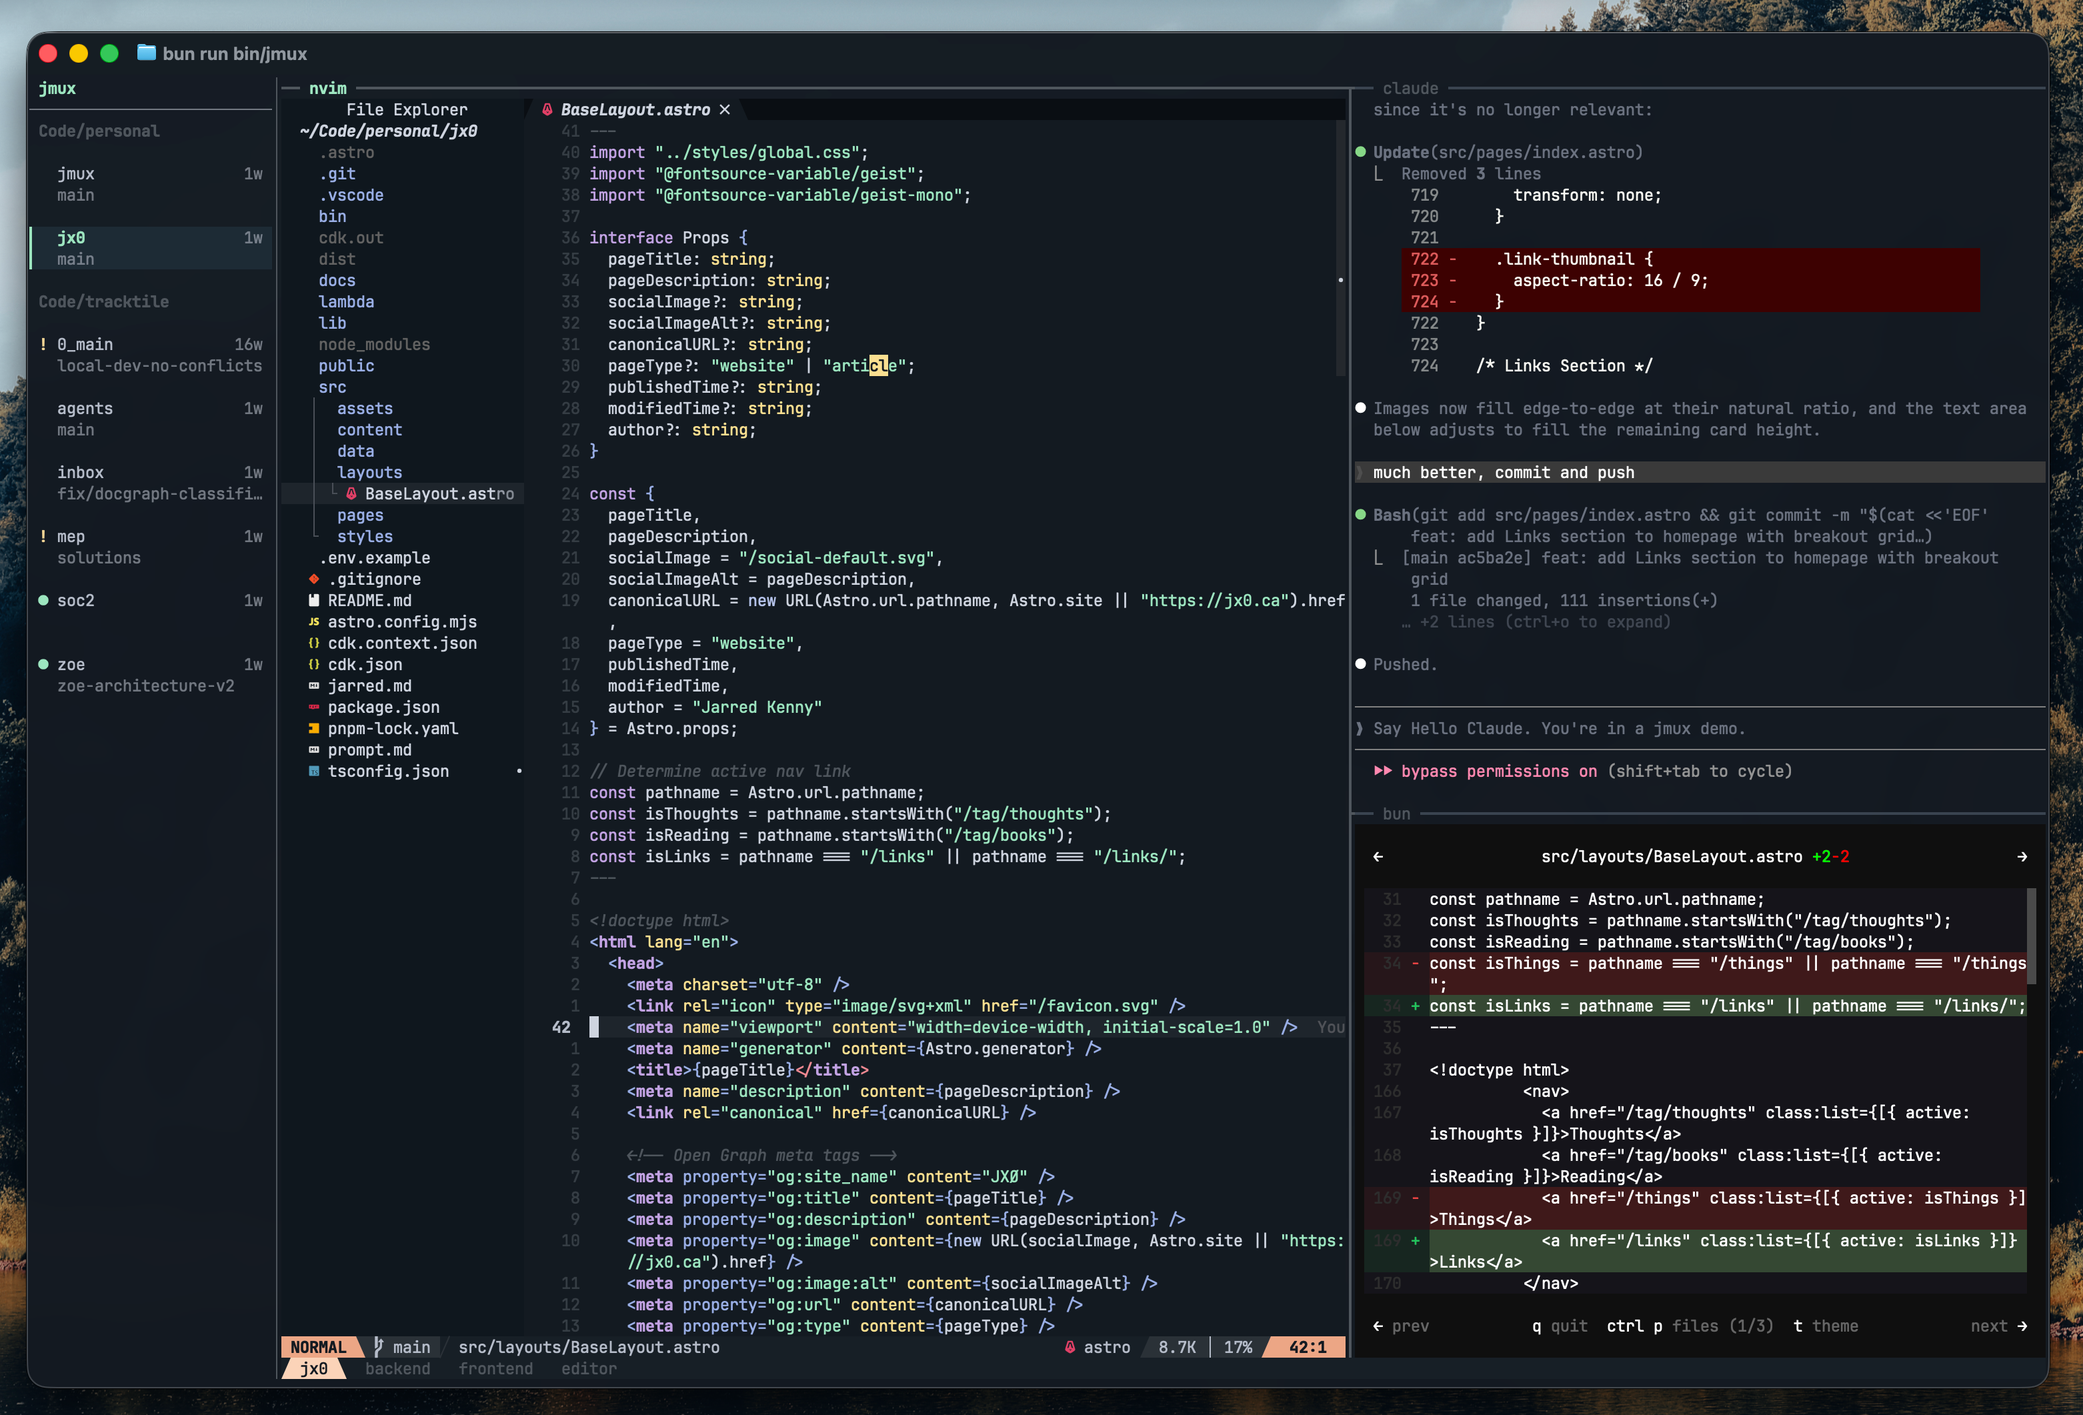
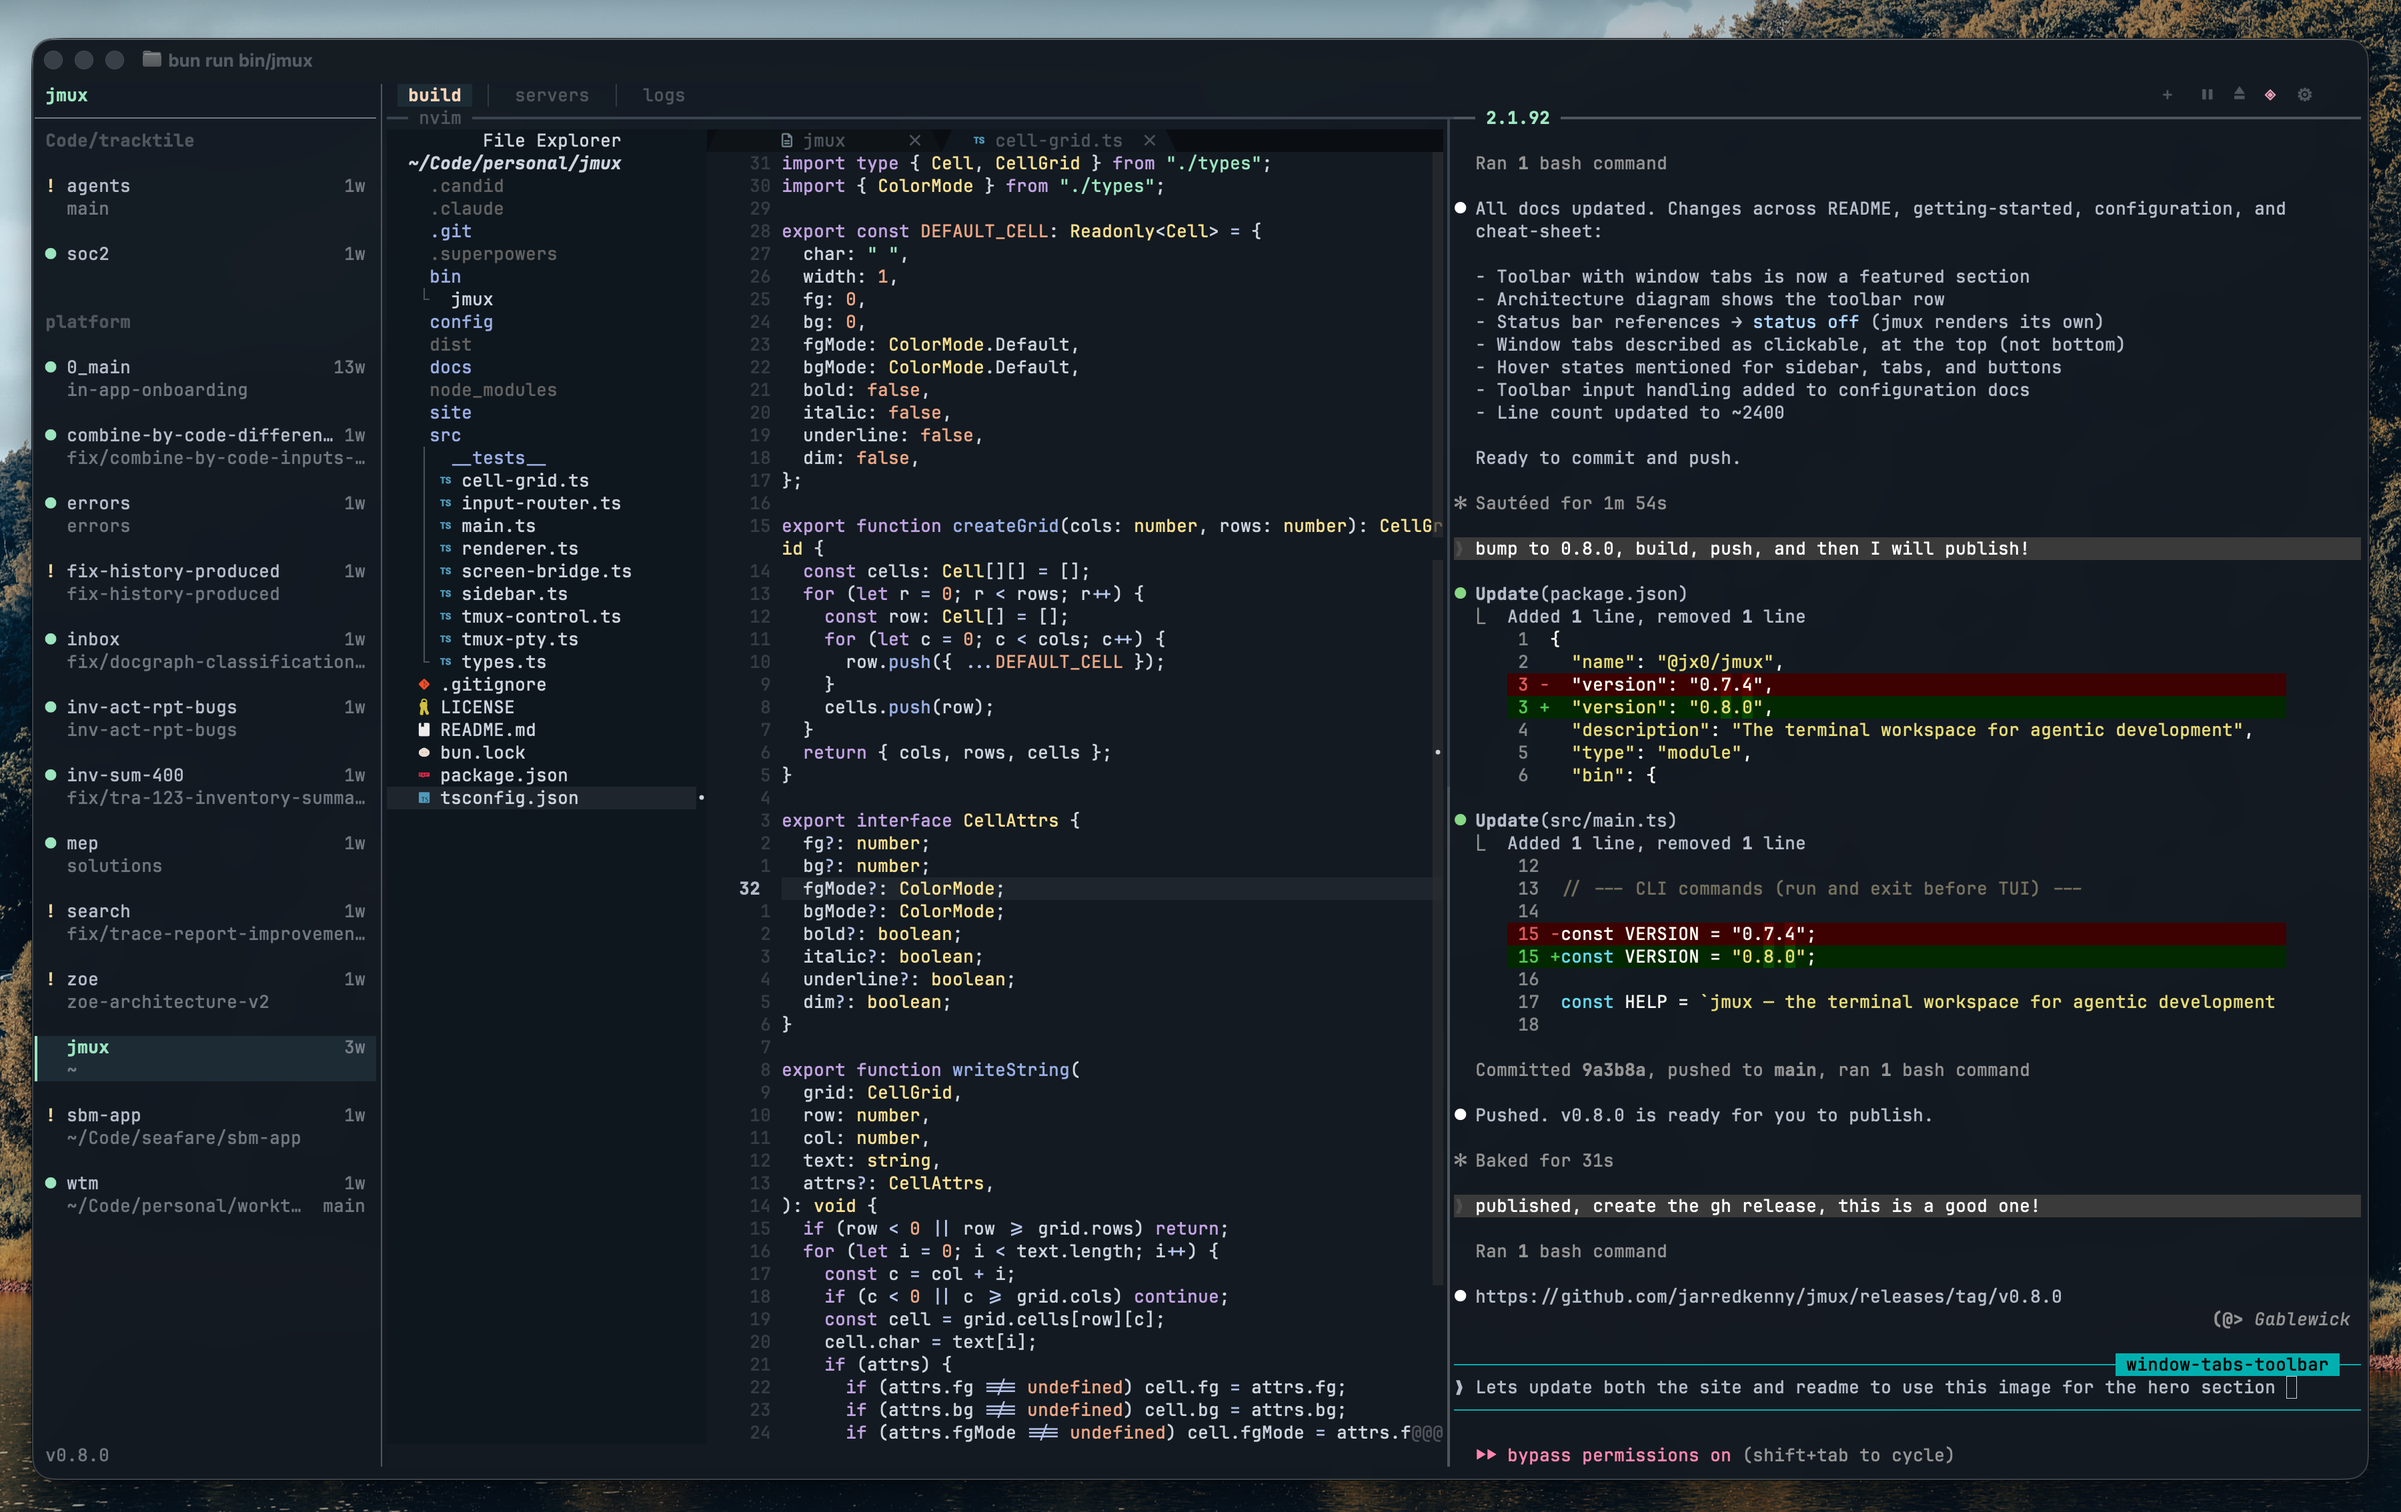
docs: update hero screenshot with toolbar and window tabs

diff --git a/README.md b/README.md
@@ -11,7 +11,7 @@ Run Claude Code, Codex, or aider in parallel — jmux shows you which agents are
 [![npm](https://img.shields.io/npm/v/@jx0/jmux)](https://www.npmjs.com/package/@jx0/jmux)
 [![license](https://img.shields.io/github/license/jarredkenny/jmux)](LICENSE)
 
-![jmux sidebar with grouped sessions alongside vim and Claude Code](docs/screenshots/hero.png)
+![jmux with sidebar sessions, window tabs toolbar, and Claude Code](docs/screenshots/hero.png)
 
 </div>
 
